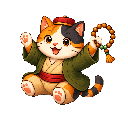
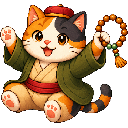
fix: 裁剪raw内容区后resize + CSS缓存v5 + 图标缓存
- raw文件裁剪到实际内容边界再缩放到128x128，猫咪更大更清晰
- CSS v3→v5 强制刷新所有猫咪图片
- 商店面板猫咪图标也加上缓存版本号

diff --git a/styles.css b/styles.css
@@ -11,10 +11,10 @@
   --plum: #723654;
   --cream: #fff9df;
   --shadow: rgba(37, 22, 15, 0.25);
-  --cat-icon-tabby: url("assets/art/v3/cats/tabby-sit.png");
-  --cat-icon-sleepy: url("assets/art/v3/cats/sleepy-sit.png");
-  --cat-icon-monk: url("assets/art/v3/cats/monk-sit.png");
-  --cat-icon-vendor: url("assets/art/v3/cats/vendor-sit.png");
+  --cat-icon-tabby: url("assets/art/v3/cats/tabby-sit.png?v=5");
+  --cat-icon-sleepy: url("assets/art/v3/cats/sleepy-sit.png?v=5");
+  --cat-icon-monk: url("assets/art/v3/cats/monk-sit.png?v=5");
+  --cat-icon-vendor: url("assets/art/v3/cats/vendor-sit.png?v=5");
   --icon-bracelet: url("assets/art/v3/bracelets/monkey-head-default-0.png");
   --icon-token: url("assets/art/v3/ui/token.png");
   --icon-incense: url("assets/art/v3/ui/incense.png");
@@ -269,18 +269,18 @@ button {
   -webkit-user-drag: none;
 }
 
-.cat-action-sprite.tabby.action-sit { --cat-image: url("assets/art/v3/cats/tabby-sit.png?v=4"); }
-.cat-action-sprite.tabby.action-jump { --cat-image: url("assets/art/v3/cats/tabby-jump.png?v=4"); }
-.cat-action-sprite.tabby.action-lie { --cat-image: url("assets/art/v3/cats/tabby-lie.png?v=4"); }
-.cat-action-sprite.sleepy.action-sit { --cat-image: url("assets/art/v3/cats/sleepy-sit.png?v=4"); }
-.cat-action-sprite.sleepy.action-jump { --cat-image: url("assets/art/v3/cats/sleepy-jump.png?v=4"); }
-.cat-action-sprite.sleepy.action-lie { --cat-image: url("assets/art/v3/cats/sleepy-lie.png?v=4"); }
-.cat-action-sprite.monk.action-sit { --cat-image: url("assets/art/v3/cats/monk-sit.png?v=4"); }
-.cat-action-sprite.monk.action-jump { --cat-image: url("assets/art/v3/cats/monk-jump.png?v=4"); }
-.cat-action-sprite.monk.action-lie { --cat-image: url("assets/art/v3/cats/monk-lie.png?v=4"); }
-.cat-action-sprite.vendor.action-sit { --cat-image: url("assets/art/v3/cats/vendor-sit.png?v=4"); }
-.cat-action-sprite.vendor.action-jump { --cat-image: url("assets/art/v3/cats/vendor-jump.png?v=4"); }
-.cat-action-sprite.vendor.action-lie { --cat-image: url("assets/art/v3/cats/vendor-lie.png?v=4"); }
+.cat-action-sprite.tabby.action-sit { --cat-image: url("assets/art/v3/cats/tabby-sit.png?v=5"); }
+.cat-action-sprite.tabby.action-jump { --cat-image: url("assets/art/v3/cats/tabby-jump.png?v=5"); }
+.cat-action-sprite.tabby.action-lie { --cat-image: url("assets/art/v3/cats/tabby-lie.png?v=5"); }
+.cat-action-sprite.sleepy.action-sit { --cat-image: url("assets/art/v3/cats/sleepy-sit.png?v=5"); }
+.cat-action-sprite.sleepy.action-jump { --cat-image: url("assets/art/v3/cats/sleepy-jump.png?v=5"); }
+.cat-action-sprite.sleepy.action-lie { --cat-image: url("assets/art/v3/cats/sleepy-lie.png?v=5"); }
+.cat-action-sprite.monk.action-sit { --cat-image: url("assets/art/v3/cats/monk-sit.png?v=5"); }
+.cat-action-sprite.monk.action-jump { --cat-image: url("assets/art/v3/cats/monk-jump.png?v=5"); }
+.cat-action-sprite.monk.action-lie { --cat-image: url("assets/art/v3/cats/monk-lie.png?v=5"); }
+.cat-action-sprite.vendor.action-sit { --cat-image: url("assets/art/v3/cats/vendor-sit.png?v=5"); }
+.cat-action-sprite.vendor.action-jump { --cat-image: url("assets/art/v3/cats/vendor-jump.png?v=5"); }
+.cat-action-sprite.vendor.action-lie { --cat-image: url("assets/art/v3/cats/vendor-lie.png?v=5"); }
 
 .cat-art {
   position: absolute;
